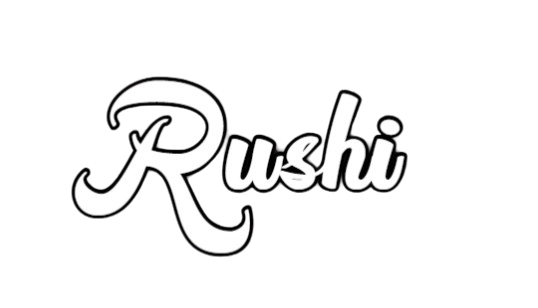
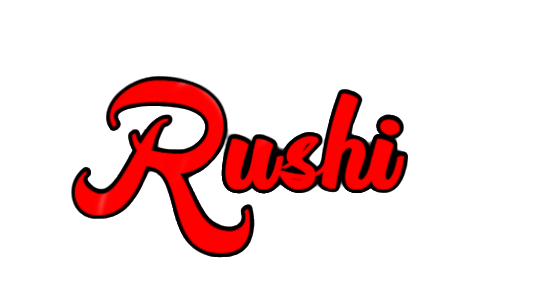
r

Changed region(s): [[0.119, 0.2338, 0.7732, 0.8474]]

diff --git a/index.html b/index.html
@@ -11,7 +11,7 @@
 
 <div class="hero-section">
     <div class="navbar">
-        <div class="logo"></div>
+        <div class="logo"> <img src="/Images/Rushi.png" alt="img"></div>
         <div class="links"></div> 
     </div>
 <div class="container1">
@@ -26,11 +26,6 @@
 <div class="container4"></div>
 <div class="container5"></div>
 <footer></footer>
-
-
-
-
-
 
 
 

diff --git a/style.css b/style.css
@@ -7,12 +7,16 @@ body{
 .hero-section{
  height: 700px;
  width: 100%;
- background-color: antiquewhite;
+ background-color: white;
 }
 .navbar{
  height: 100px;
  width: 100%; 
- background-color: aqua;
+ 
+}
+.logo img {
+    height: 60px;
+    width: 120px;
 }
 .container1{
 
